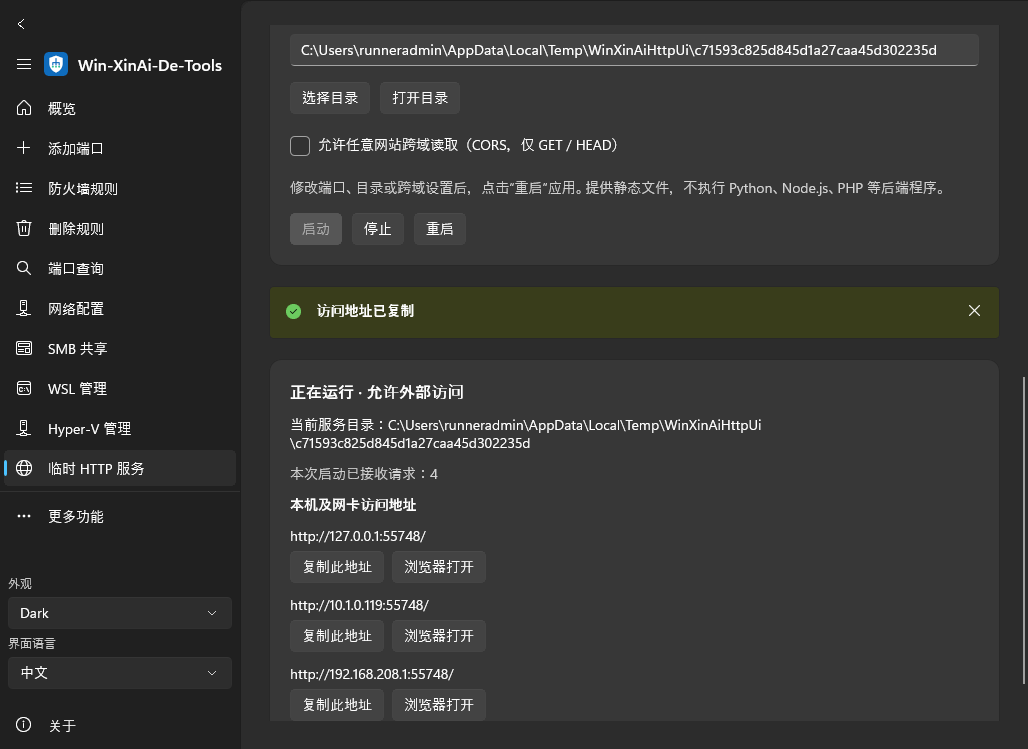
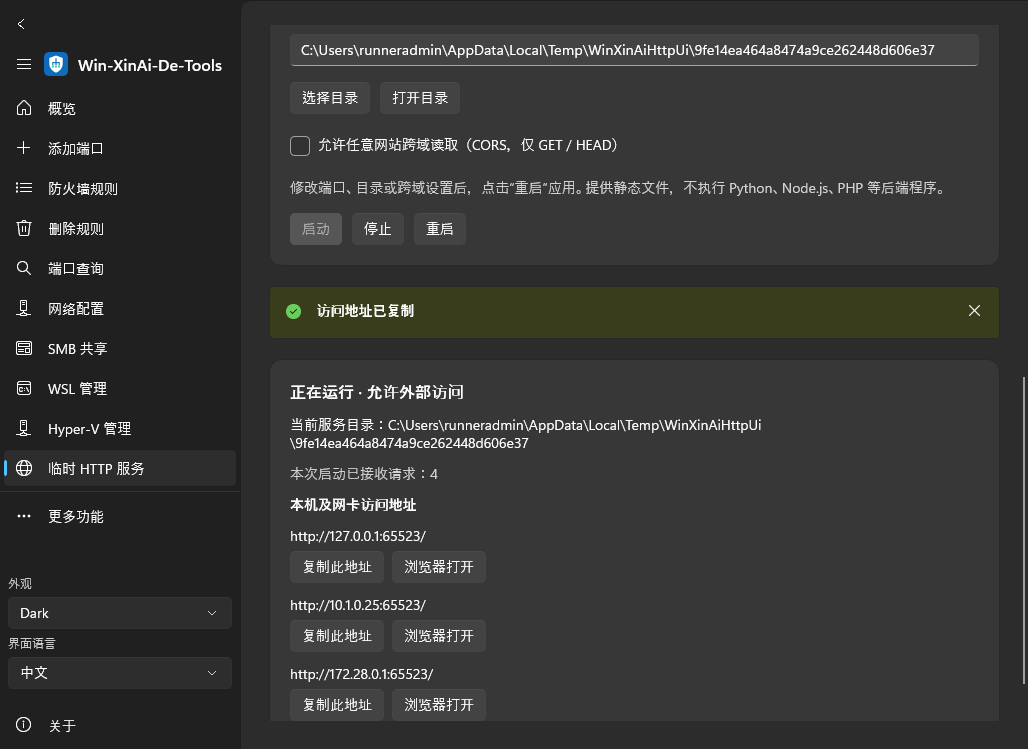
docs: record validated MyGo feature pages and refresh native screenshots

diff --git a/docs/MYGO.md b/docs/MYGO.md
@@ -51,7 +51,7 @@ Copy-Item Assets artifacts/mygo-portable/win-x64/Assets -Recurse
 
 完整发行包还需复制项目/上游许可，运行 `scripts/collect-go-licenses.py`；以 Actions 工作流为打包依据。ARM64 使用 `win-arm64` / `arm64`。不得把仅完成交叉编译描述为物理 ARM64 验收。
 
-CI 的填充数据原生控件测试覆盖 12 页 × 2 语言 × 2 主题 × 3 尺寸，另验证实际内容、行按钮目标、确认默认取消、异步自动加载/回读/错误/草稿保留；Windows x64 `scripts/mygo-ui-smoke.ps1` 启动实际窗口、只读探测真实引擎并捕获同样 144 个组合，另运行实际安装/快捷方式/卸载检查。MyGo 无障碍、混合 DPI、高对比度与真实 ARM64 设备仍需人工验收；不能继承 WinUI 的辅助技术兼容性结论。
+CI 的填充数据原生控件测试覆盖 12 页 × 2 语言 × 2 主题 × 3 尺寸，另验证实际内容、行按钮目标、确认默认取消、异步自动加载/回读/错误/草稿保留；Windows x64 `scripts/mygo-ui-smoke.ps1` 启动实际窗口、只读探测真实引擎并捕获同样 144 个组合及 20 张滚动后的设置/功能区域截图，另运行实际安装/快捷方式/卸载检查。MyGo 无障碍、混合 DPI、高对比度与真实 ARM64 设备仍需人工验收；不能继承 WinUI 的辅助技术兼容性结论。
 
 引擎控制通道仅使用父子进程私有标准输入/输出管道、串行的固定操作白名单，不额外监听 TCP 或命名管道；主动启动的 HTTP 文件服务仍会监听所选端口。`confirmed` 是同权限 GUI 的交互约定，不是隔离其他管理员的安全边界。一般操作最多等待 5 分钟，WSL 长操作 1 小时；超时中止引擎可能留下已执行修改或临时 HTTP 防火墙规则，须在本机检查清理。
 
@@ -65,4 +65,9 @@ Version 1.12.0 replaces the old operation-selector/JSON-first console with dedic
 
 Network reset offers DNS cache, selected-adapter IPv4 DHCP/automatic DNS and Winsock/TCP/IP modes. Every reset snapshots configuration before changing it, confirms with Cancel as default and never reboots automatically. Read [network reset and recovery](NETWORK-RESET.md) before use. SMB Guest sharing and unauthenticated external HTTP retain their explicit risks.
 
-CI covers 144 populated native view combinations, every operation form, real-content assertions, row-target/default-cancel contracts, asynchronous page load/read-back/error/draft tests, Windows read-only engine/native captures and real x64 installer lifecycle. Actual network reset/reboot, physical ARM64, accessibility, mixed DPI and interactive installer presentation require manual acceptance. Five-minute general/one-hour WSL timeouts can interrupt already-applied changes; forced termination can require local HTTP firewall cleanup. Pinning, resource generation and complete packaging commands are in the workflow.
+CI covers 144 populated native view combinations, every operation form, real-content assertions, row-target/default-cancel contracts, asynchronous page load/read-back/error/draft tests, Windows read-only engine/native captures (144 view combinations plus 20 scrolled settings views) and real x64 installer lifecycle. Actual network reset/reboot, physical ARM64, accessibility, mixed DPI and interactive installer presentation require manual acceptance. Five-minute general/one-hour WSL timeouts can interrupt already-applied changes; forced termination can require local HTTP firewall cleanup. Pinning, resource generation and complete packaging commands are in the workflow.
+
+
+## v1.12.0 validation / 专用页面验收
+
+The Windows candidate workflow is linked in [the focused review and validation record](AUDIT.md). Tests now assert populated feature content and exact row targets, not just titles. Native screenshots cover all 12 pages in both languages and explicit themes, plus scrolled settings. Requested 1400 × 900 windows are constrained by the hosted runner; actual capture sizes are recorded (maximum observed content 1028 × 749), not represented as a 1400-DIP hardware acceptance. The Static network form in screenshots is an unsubmitted draft; no network reset or Hyper-V mutation is executed. Virtual-adapter/distribution rows are empty when the real host has none; populated fixtures cover their controls without presenting invented state as real Windows data.

diff --git a/docs/AUDIT.md b/docs/AUDIT.md
@@ -9,7 +9,15 @@ The earlier 144-page render checks did not establish that functions were directl
 
 Focused source review covers `mygo/app.go`, `features.go`, `features_state.go`, `transfer.go`, `smoke.go` and the existing dispatcher/model contracts. It is not an independent/full penetration test. Modification calls still require a Cancel-default confirmation; row targets and arguments are frozen; Hyper-V adapter buttons use only the virtual-adapter inventory; protected switch deletion is still enforced by the shared service. Page initialization uses a read-only operation plan and never resets networking, changes Hyper-V or reboots. Failed probes hide cached healthy state. Network drafts are not overwritten by same-adapter refresh; responses for old adapter GUIDs are discarded. Import reads at most 900 KB, previews at most 10 rules and shows a bounded confirmation with rule count and content hash, while the engine retains final validation.
 
-Validation is in progress. No v1.12.0 Windows build, screenshot or published asset is claimed by this candidate entry until the workflow and download verification are recorded.
+[Successful final candidate workflow](https://github.com/logdns/Win-XinAi-De-Tools/actions/runs/39005023882), implementation `c8efcd2d9077a886c59049a65edfcf1054c02703`, 2026-10-17:
+
+- All 151 Windows .NET 8 tests, 2 opted-in firewall integration tests, 33 Go test functions, 13 installer source contracts, 420-resource bilingual/version audit, native helper builds, pinned-Go vulnerability scans and all three direct/transitive NuGet audits pass. Local Go `-race` and `go vet` also pass.
+- MyGo completes 12 initial read-only engine probes plus the selected adapter configuration probe, asserts dedicated native controls with actual Windows data, captures 144 language/theme/size combinations and 20 additional scrolled feature/settings views. Native screenshots for every page are retained as artifacts; both READMEs now show the new rule list, populated IP/DNS form, Hyper-V controls and connection list rather than the obsolete execution console.
+- Hosted display constraints are recorded: requested 1400 × 900 yields a 1028 × 749 content capture, 800 × 600 yields 784 × 561 and 480 × 640 yields 464 × 601. Full-width headless tests remain 1400/800/480; these are not physical DPI/accessibility acceptance.
+- WinUI repeats 180 native combinations, temporary HTTP lifecycle/cleanup and navigation checks. All ten packages build. Both real x64 installers pass every shortcut selection, Start Menu launch, reinstall and uninstall. The separate simultaneous-installation test verifies that WinUI deselection/reinstall/uninstall preserves MyGo.
+- Follow-up review fixes stale success summaries after exceptions, stale/removed adapter selections before reset confirmation, misleading manual DNS controls in DHCP mode and unbounded import confirmation text. Tests assert frozen exact targets, default-cancel behavior, real automatic load/read-back, retained failure status, hidden stale healthy data, draft retention and individual HTTP URL copy/open actions.
+- One intermediate candidate (`39004721161`) failed a pre-existing localhost HTTP 301 semantics test because the one-second production probe budget also bounded a cold, busy CI fixture. Response-semantics fixtures now use an internal five-second test timeout; production remains one second with a ten-second overall deadline, no proxy and no redirect following. No failing assertion is skipped or retried into success.
+- No real network reset, Hyper-V mutation or reboot is executed. Static IP screenshots show an unsubmitted draft populated from a real DHCP adapter. Physical x86/ARM64, actual reset/reboot recovery, accessibility/mixed DPI, interactive installer presentation and Start Menu indexing remain manual acceptance. Release tag/download verification is a separate step; no old tag is retargeted.
 
 
 ## Verified release 1.11.1 / 双版本发布与下载校验

diff --git a/README.md b/README.md
@@ -43,11 +43,11 @@ System configuration changes require administrator privileges. Enable the legacy
 
 ## Interface
 
-Previous v1.11.1 screenshots (the v1.12.0 candidate refresh follows Windows validation), from the [v1.11.1 release UI verification](https://github.com/logdns/Win-XinAi-De-Tools/actions/runs/39000845077). System status and available controls depend on the host configuration.
+Actual Windows x64 screenshots from the [v1.12.0 candidate UI verification](https://github.com/logdns/Win-XinAi-De-Tools/actions/runs/39005023882). System status and available controls depend on the host configuration. MyGo now shows dedicated feature pages, not an operation-selector/JSON console. The adapter settings screenshot is an unsubmitted Static draft populated from a DHCP adapter; no network configuration was changed.
 
 ### Dashboard
 
-![v1.11.1 dashboard with Hyper-V navigation](docs/screenshots/dashboard.png)
+![v1.12.0 dashboard with Hyper-V navigation](docs/screenshots/dashboard.png)
 
 ### Hyper-V features and boot configuration
 
@@ -59,19 +59,40 @@ Previous v1.11.1 screenshots (the v1.12.0 candidate refresh follows Windows vali
 
 ### Local HTTP discovery
 
-![v1.11.1 local HTTP service discovery](docs/screenshots/temporary-http-discovery.png)
+![v1.12.0 local HTTP service discovery](docs/screenshots/temporary-http-discovery.png)
 
 ### Local network reset (WinUI)
 
-![v1.11.1 DNS, adapter and Winsock/TCP/IP reset with dark safety notice](docs/screenshots/network-reset.png)
+![v1.12.0 DNS, adapter and Winsock/TCP/IP reset with dark safety notice](docs/screenshots/network-reset.png)
 
 ### Built with MyGo: native overview
 
-![v1.11.1 MyGo native dashboard](docs/screenshots/mygo-dashboard.png)
+![v1.12.0 MyGo native dashboard](docs/screenshots/mygo-dashboard.png)
+
+### Built with MyGo: rules and direct actions
+
+![v1.12.0 MyGo searchable rule list with edit and delete buttons](docs/screenshots/mygo-firewall.png)
+
+### Built with MyGo: populated IP/DNS settings
+
+![v1.12.0 MyGo selected-adapter settings, unsubmitted Static draft](docs/screenshots/mygo-network-settings.png)
+
+### Built with MyGo: Hyper-V platform and networking
+
+![v1.12.0 MyGo Hyper-V feature and boot state with dedicated controls](docs/screenshots/mygo-hyperv.png)
+
+<details>
+<summary>Virtual switch settings and connection monitor</summary>
+
+![v1.12.0 MyGo real switch inventory and unsubmitted creation form](docs/screenshots/mygo-hyperv-network.png)
+
+![v1.12.0 MyGo connection list with process-bound actions](docs/screenshots/mygo-connections.png)
+
+</details>
 
 ### Built with MyGo: network reset
 
-![v1.11.1 MyGo network reset and safety scope](docs/screenshots/mygo-reset.png)
+![v1.12.0 MyGo network reset and safety scope](docs/screenshots/mygo-reset.png)
 
 ## Documentation and development
 

diff --git a/docs/UI-AND-VALIDATION.md b/docs/UI-AND-VALIDATION.md
@@ -78,7 +78,7 @@ Rollback: install the preceding published version. UI preferences are separate f
 
 ## MyGo parallel release
 
-See [MyGo architecture, capabilities and build](MYGO.md) and [network reset safety](NETWORK-RESET.md). MyGo adds native Go view tests, pinned Go vulnerability scanning, actual Windows x64 read-only engine/window captures (144 combinations) and installer lifecycle verification. Its `mygo-ui-verification` and `mygo-installer-verification` artifacts are separate from WinUI. Both publication matrices and actual cross-edition installation must pass before a tag release can publish; the release has **11 assets** (WinUI 3 ZIP + 3 EXE, MyGo 2 ZIP + 2 EXE, one checksum manifest). Actual reset/reboot is never part of CI. Native MyGo accessibility, tray, mixed-DPI and physical ARM64 need their own acceptance rather than inheriting WinUI results.
+See [MyGo architecture, capabilities and build](MYGO.md) and [network reset safety](NETWORK-RESET.md). MyGo adds native Go view tests, pinned Go vulnerability scanning, actual Windows x64 read-only engine/window captures (144 combinations plus 20 scrolled feature/settings captures, with actual capture dimensions recorded) and installer lifecycle verification. Its `mygo-ui-verification` and `mygo-installer-verification` artifacts are separate from WinUI. Both publication matrices and actual cross-edition installation must pass before a tag release can publish; the release has **11 assets** (WinUI 3 ZIP + 3 EXE, MyGo 2 ZIP + 2 EXE, one checksum manifest). Actual reset/reboot is never part of CI. Native MyGo accessibility, tray, mixed-DPI and physical ARM64 need their own acceptance rather than inheriting WinUI results.
 
 After downloading a published dual release, check every package without executing it:
 
